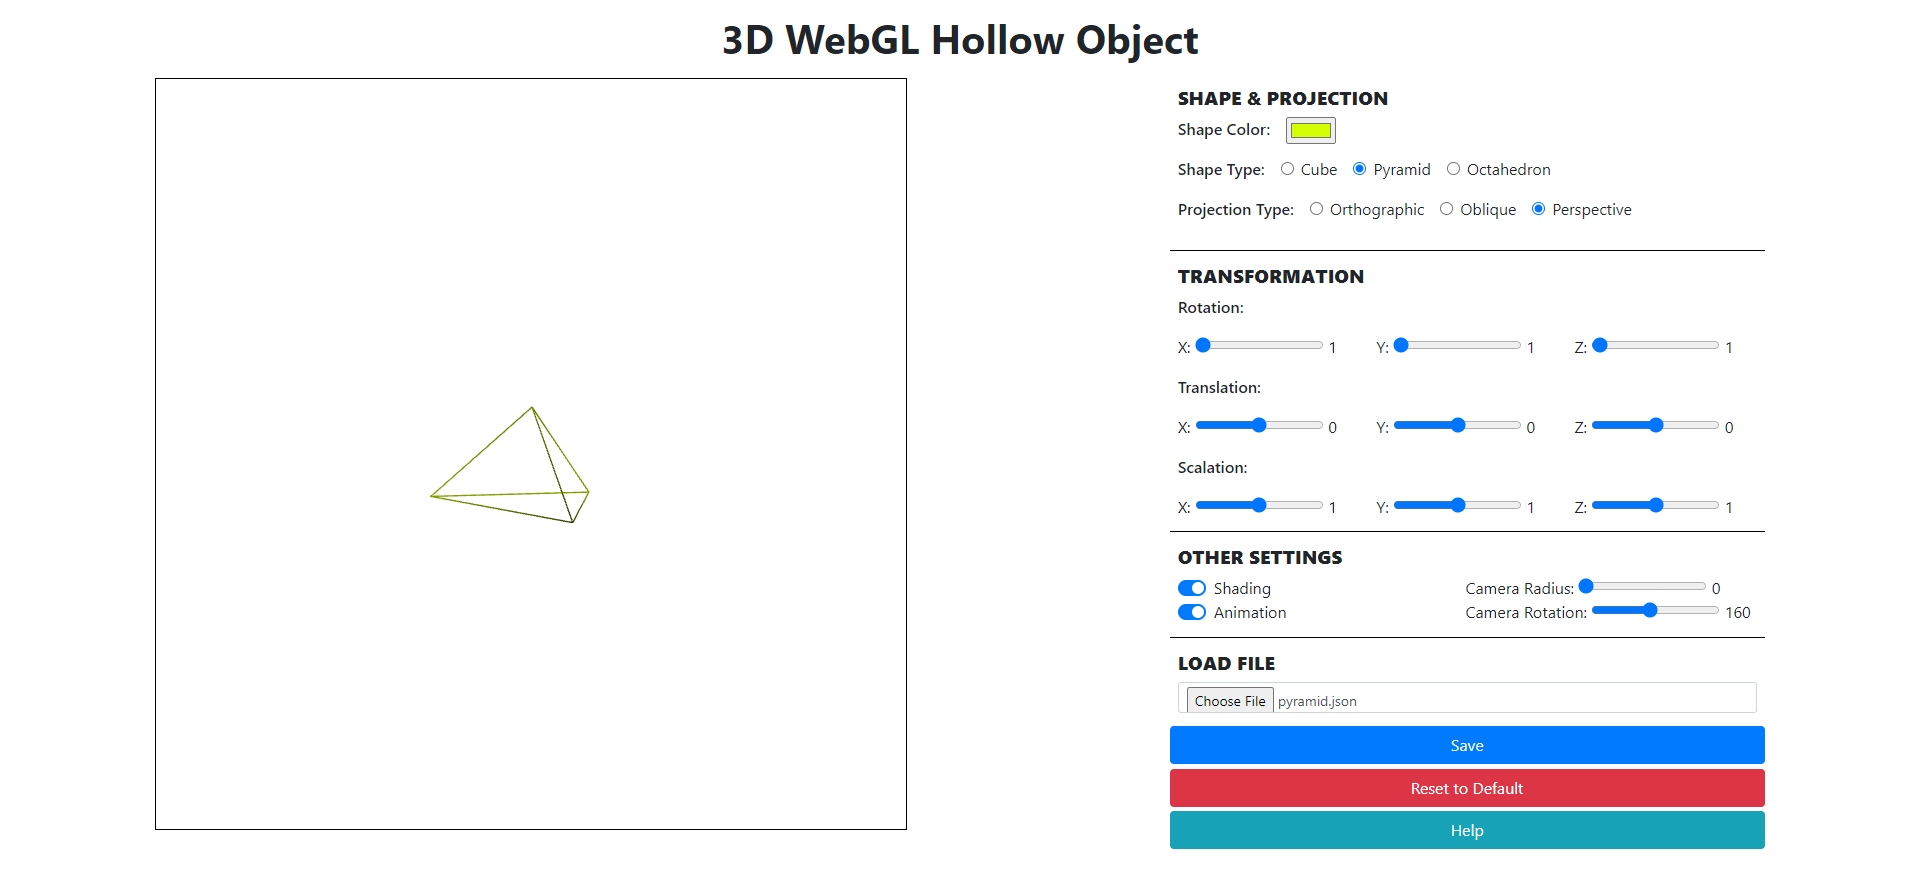
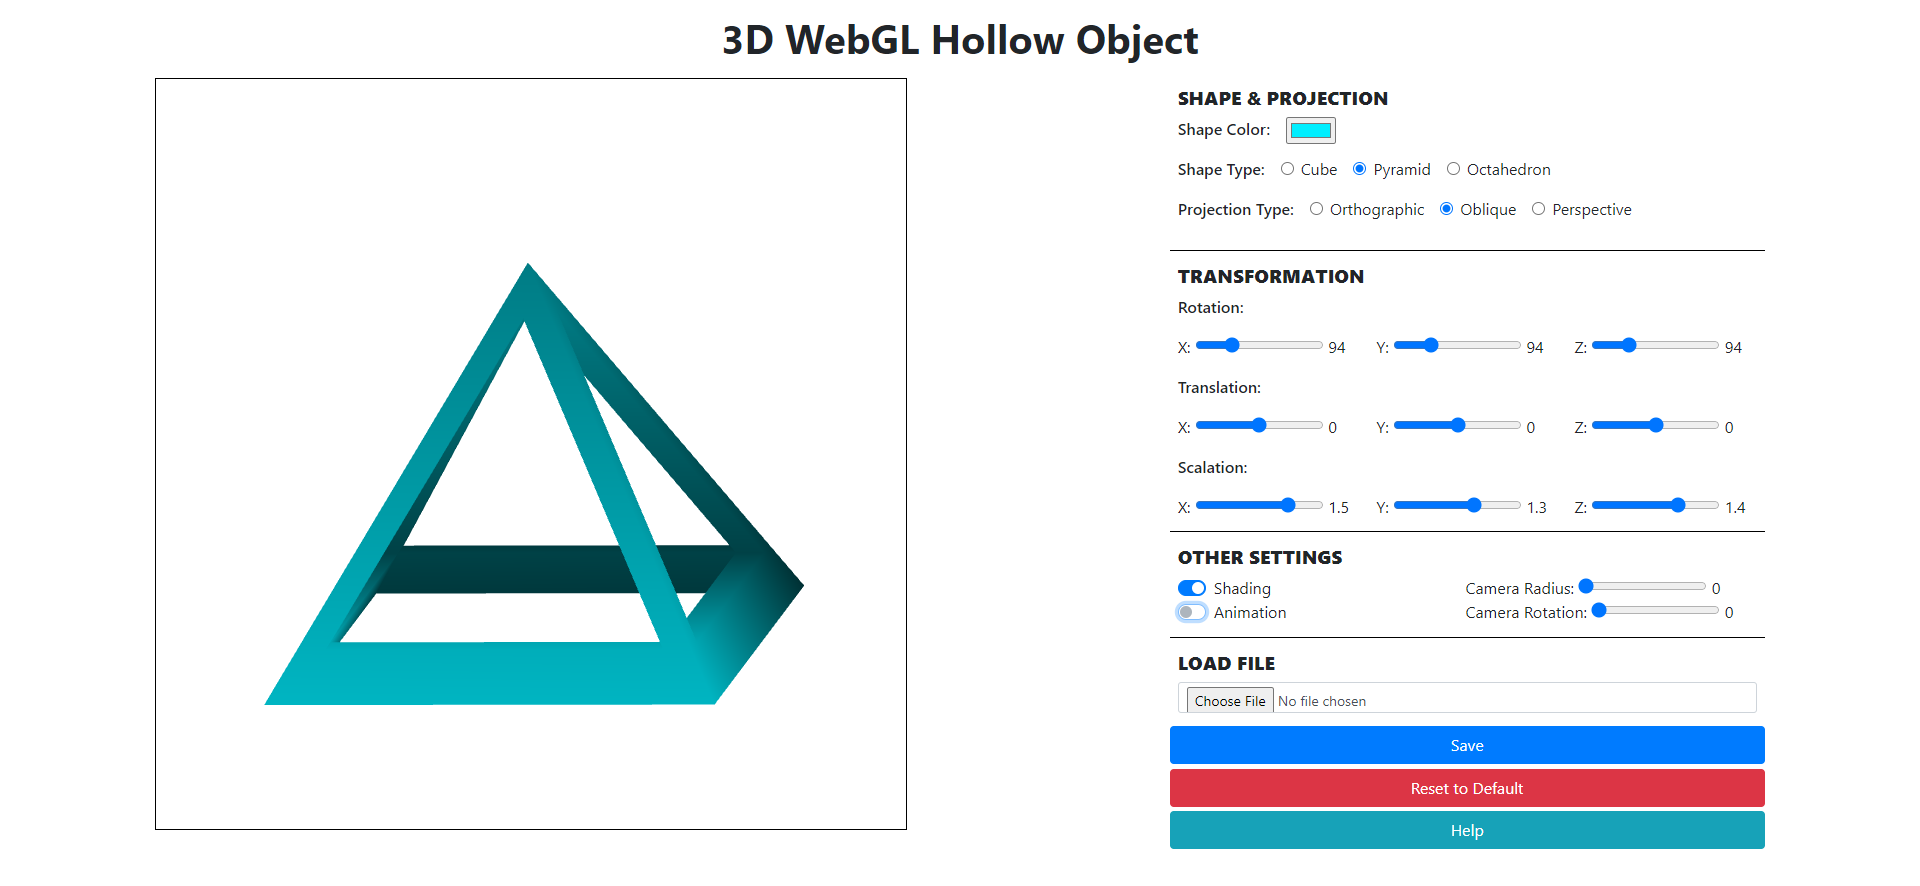
feat: hollow pyramid object

diff --git a/src/config/object.js b/src/config/object.js
@@ -192,16 +192,209 @@ const cube = {
 
 const pyramid = {
     vertices: [
-        0.0, -0.25, -0.5,
-        0.0,  0.25,  0.00,
-        0.5, -0.25,  0.25,
-        -0.5, -0.25,  0.25,
+        // Outer Top
+        0, 0.4, 0, // 0
+
+        // Inner Top
+        0, 0.3, 0, // 1
+
+        // Outer Edge
+        0.4, -0.4, 0.4, //2
+        0.4, -0.4, -0.4, //3
+        -0.4, -0.4, -0.4, //4
+        -0.4, -0.4, 0.4, //5
+
+        // Inner Edge
+        0.3, -0.3, 0.3, //6
+        0.3, -0.3, -0.3, //7
+        -0.3, -0.3, -0.3, //8
+        -0.3, -0.3, 0.3, //9
+
+        // Outer Bottom
+        0.35, -0.4, 0.35, //10
+        0.35, -0.4, -0.35, //11
+        -0.35, -0.4, -0.35, //12
+        -0.35, -0.4, 0.35, //13
+
+        // Inner Triangle Top
+        0, 0.3, 0.05, //14
+        0.05, 0.3, 0, //15
+        0, 0.3, -0.05, //16
+        -0.05, 0.3, 0, //17
+
+        // Inner Triangle Face
+        // ///////////////////////
+        0.35, -0.3, 0.3, //18
+        0.3, -0.3, 0.35, //19
+        // ///////////////////////
+        0.35, -0.3, -0.3, //20
+        0.3, -0.3, -0.35, //21
+        // ///////////////////////
+        -0.35, -0.3, -0.3, //22
+        -0.3, -0.3, -0.35, //23
+        // ///////////////////////
+        -0.35, -0.3, 0.3, //24
+        -0.3, -0.3, 0.35, //25
     ],
     indices: [
-        2, 1, 1, 3, 3, 2,
-        3, 1, 1, 0, 0, 3,
-        0, 1, 1, 2, 2, 0,
-        0, 2, 2, 3, 3, 0,
+        0, 2, 10,
+        0, 3, 11,
+        0, 4, 12,
+        0, 5, 13,
+
+        0, 1, 10,
+        0, 1, 11,
+        0, 1, 12,
+        0, 1, 13,
+
+        0, 14, 19,
+        0, 14, 25,
+
+        0, 15, 20,
+        0, 15, 18,
+
+        0, 16, 23,
+        0, 16, 21,
+
+        0, 17, 24,
+        0, 17, 22,
+
+        0, 2, 18,
+        0, 2, 19,
+        
+        0, 3, 21,
+        0, 3, 20,
+
+        0, 4, 22,
+        0, 4, 23,
+
+        0, 5, 25,
+        0, 5, 24,
+
+        19, 25, 5,
+        19, 25, 2,
+        2, 5, 19,
+        2, 5, 25,
+
+        24, 22, 4,
+        24, 22, 5,
+        4, 5, 24,
+        4, 5, 22,
+
+        23, 21, 3,
+        23, 21, 4,
+        3, 4, 23,
+        3, 4, 21,
+
+        20, 18, 2,
+        20, 18, 3,
+        2, 3, 20,
+        2, 3, 18,
+
+        0, 1, 6,
+        0, 1, 7,
+        0, 1, 8,
+        0, 1, 9,
+
+        1, 6, 19,
+        1, 6, 18,
+        14, 6, 19,
+        15, 6, 18,
+
+        1, 7, 20,
+        1, 7, 21,
+        15, 7, 20,
+        16, 7, 21,
+
+        1, 8, 23,
+        1, 8, 22,
+        16, 8, 23,
+        17, 8, 22,
+
+        1, 9, 24,
+        1, 9, 25,
+        17, 9, 24,
+        14, 9, 25,
+
+        13, 12, 4,
+        13, 12, 5,
+        4, 5, 12,
+        4, 5, 13,
+
+        12, 11, 3,
+        12, 11, 4,
+        3, 4, 11,
+        3, 4, 12,
+
+        11, 10, 2,
+        11, 10, 3,
+        2, 3, 10,
+        2, 3, 11,
+
+        10, 13, 5,
+        10, 13, 2,
+        2, 5, 10,
+        2, 5, 13,
+
+        6, 9, 13,
+        6, 9, 10,
+        10, 13, 6,
+        10, 13, 9,
+
+        9, 8, 12,
+        9, 8, 13,
+        12, 13, 8,
+        12, 13, 9,
+
+        8, 7, 11,
+        8, 7, 12,
+        11, 12, 7,
+        11, 12, 8,
+
+        7, 6, 10,
+        7, 6, 11,
+        10, 11, 6,
+        10, 11, 7,
+
+        6, 9, 25,
+        6, 9, 19,
+        25, 19, 6,
+        25, 19, 9,
+
+        9, 8, 24,
+        9, 8, 22,
+        24, 22, 8,
+        24, 22, 9,
+
+        8, 7, 21,
+        8, 7, 23,
+        21, 23, 7,
+        21, 23, 8,
+
+        7, 6, 20,
+        7, 6, 18,
+        20, 18, 6,
+        20, 18, 7,
+
+        1, 15, 7,
+        1, 15, 20,
+        1, 16, 7,
+        1, 16, 21,
+
+        1, 16, 23,
+        1, 16, 8,
+        1, 17, 22,
+        1, 17, 8,
+
+        1, 17, 9,
+        1, 17, 24,
+        1, 14, 9,
+        1, 14, 25,
+
+        1, 14, 6,
+        1, 14, 19,
+        1, 15, 6,
+        1, 15, 18,
     ]
 } 
 
